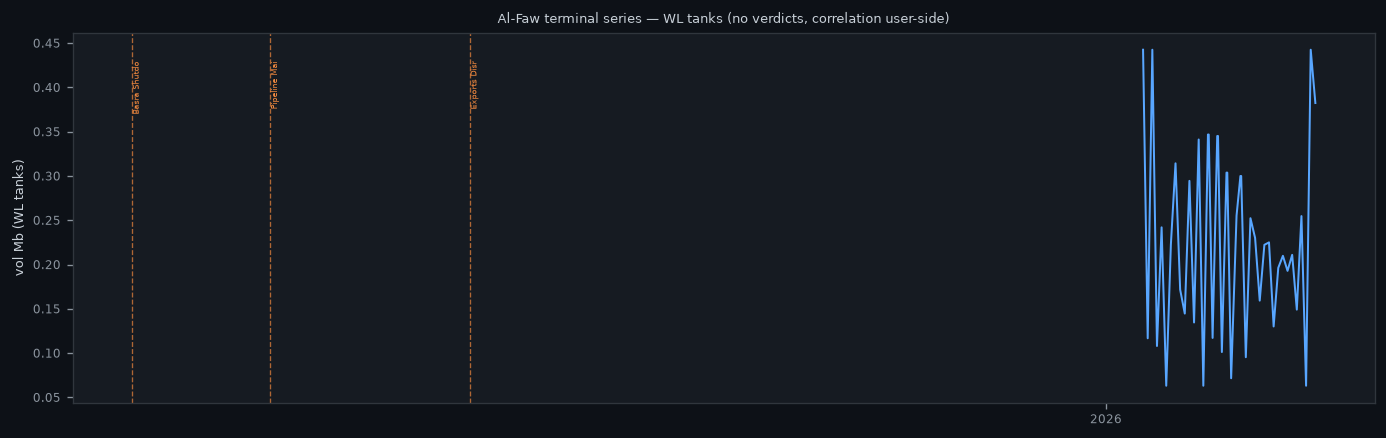
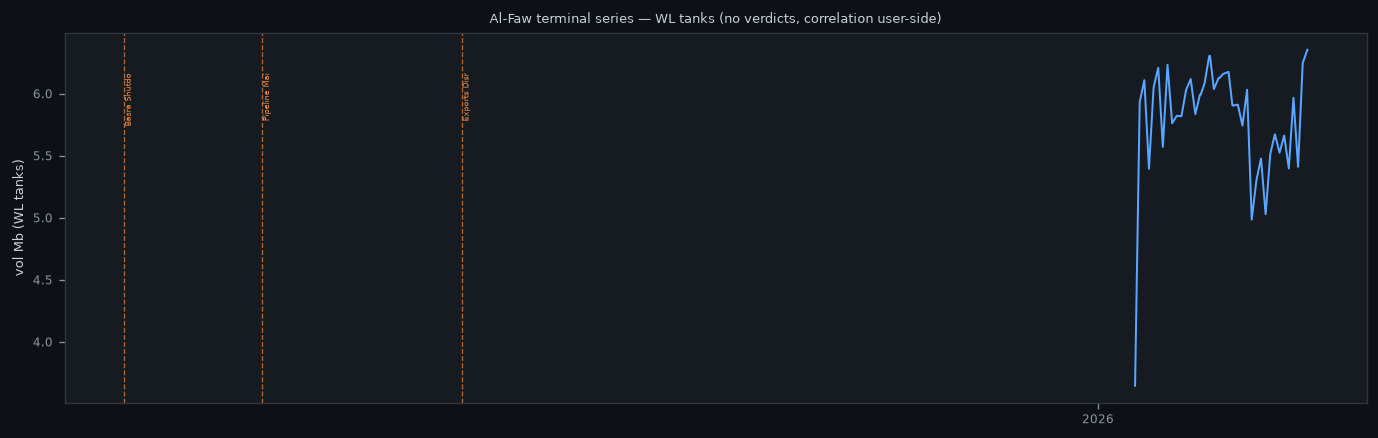
ci: stage7 al_faw baseline outputs [skip ci]

diff --git a/IRAQ_ALFAW_BASELINE.md b/IRAQ_ALFAW_BASELINE.md
@@ -1,6 +1,6 @@
 # IRAQ_ALFAW_BASELINE
 
-Generated: 2026-10-02 07:55 UTC  
+Generated: 2026-10-02 12:47 UTC  
 Terminal: `al_flaw` (Al-Faw, Iraq, IQ)  
 Tanks: 24 (all radius=40m, h_max=14m)  
 Pipeline: stage7_alfaw_baseline.py  
@@ -53,40 +53,40 @@ All tanks: radius=40m → 8px/ray at 5m/px, shadow pixels = 7px ≥ 2 — geomet
 | Field | Value |
 |---|---|
 | Tanks total | 24 |
-| WL tanks (step_db≥2.5) | 1 |
+| WL tanks (step_db≥2.5) | 23 |
 | Total capacity | 10.623 Mb |
-| WL capacity | 0.443 Mb |
-| WL cap fraction | 4.2% |
-| Terminal WL gate (≥60%) | **FAIL** |
+| WL capacity | 10.18 Mb |
+| WL cap fraction | 95.8% |
+| Terminal WL gate (≥60%) | **PASS** |
 
 ### Per-tank table
 
 | tank_id | n_passes | db_mean | db_std | step_full | step_fresh | WL |
 |---|---|---|---|---|---|---|
-| af_0 | 42 | 1.41 | 3.32 | 0.59 | 0.60 | — |
-| af_1 | 42 | 2.14 | 4.30 | 0.87 | 0.70 | — |
-| af_2 | 42 | 0.95 | 2.51 | 0.61 | 0.70 | — |
-| af_3 | 42 | 0.07 | 0.63 | 0.44 | 0.32 | — |
-| af_4 | 42 | 2.76 | 1.55 | 0.69 | 1.18 | — |
-| af_5 | 42 | 4.68 | 1.32 | 0.89 | 0.43 | — |
+| af_0 | 42 | 1.41 | 3.32 | 0.59 | 0.60 | ✓ |
+| af_1 | 42 | 2.14 | 4.30 | 0.87 | 0.70 | ✓ |
+| af_2 | 42 | 0.95 | 2.51 | 0.61 | 0.70 | ✓ |
+| af_3 | 42 | 0.07 | 0.63 | 0.44 | 0.32 | ✓ |
+| af_4 | 42 | 2.76 | 1.55 | 0.69 | 1.18 | ✓ |
+| af_5 | 42 | 4.68 | 1.32 | 0.89 | 0.43 | ✓ |
 | af_6 | 42 | 0.37 | 2.00 | 2.51 | 1.17 | ✓ |
-| af_7 | 42 | -1.85 | 0.87 | 0.71 | 0.68 | — |
-| af_8 | 42 | 0.44 | 0.88 | 0.80 | 0.79 | — |
-| af_9 | 42 | -2.92 | 0.72 | 0.60 | 0.56 | — |
-| af_10 | 42 | 1.58 | 0.93 | 0.75 | 0.58 | — |
-| af_11 | 42 | -0.94 | 0.57 | 0.40 | 0.56 | — |
-| af_12 | 42 | 3.52 | 1.06 | 0.57 | 0.64 | — |
-| af_13 | 42 | 2.64 | 0.95 | 0.54 | 0.44 | — |
-| af_14 | 42 | 4.40 | 0.82 | 0.43 | 0.30 | — |
+| af_7 | 42 | -1.85 | 0.87 | 0.71 | 0.68 | ✓ |
+| af_8 | 42 | 0.44 | 0.88 | 0.80 | 0.79 | ✓ |
+| af_9 | 42 | -2.92 | 0.72 | 0.60 | 0.56 | ✓ |
+| af_10 | 42 | 1.58 | 0.93 | 0.75 | 0.58 | ✓ |
+| af_11 | 42 | -0.94 | 0.57 | 0.40 | 0.56 | ✓ |
+| af_12 | 42 | 3.52 | 1.06 | 0.57 | 0.64 | ✓ |
+| af_13 | 42 | 2.64 | 0.95 | 0.54 | 0.44 | ✓ |
+| af_14 | 42 | 4.40 | 0.82 | 0.43 | 0.30 | ✓ |
 | af_15 | 42 | 8.00 | 0.29 | 0.25 | 0.20 | — |
-| af_16 | 41 | -3.96 | 0.97 | 0.38 | 0.53 | — |
-| af_17 | 41 | -1.21 | 0.81 | 0.53 | 0.50 | — |
-| af_18 | 41 | 2.44 | 0.45 | 0.25 | 0.35 | — |
-| af_19 | 41 | 3.54 | 1.44 | 0.59 | 0.43 | — |
-| af_20 | 41 | 5.32 | 1.94 | 0.88 | 0.68 | — |
-| af_21 | 41 | 6.12 | 1.12 | 0.69 | 0.95 | — |
-| af_22 | 41 | -0.48 | 0.62 | 0.34 | 0.20 | — |
-| af_23 | 41 | -1.45 | 0.90 | 0.70 | 0.48 | — |
+| af_16 | 41 | -3.96 | 0.97 | 0.38 | 0.53 | ✓ |
+| af_17 | 41 | -1.21 | 0.81 | 0.53 | 0.50 | ✓ |
+| af_18 | 41 | 2.44 | 0.45 | 0.25 | 0.35 | ✓ |
+| af_19 | 41 | 3.54 | 1.44 | 0.59 | 0.43 | ✓ |
+| af_20 | 41 | 5.32 | 1.94 | 0.88 | 0.68 | ✓ |
+| af_21 | 41 | 6.12 | 1.12 | 0.69 | 0.95 | ✓ |
+| af_22 | 41 | -0.48 | 0.62 | 0.34 | 0.20 | ✓ |
+| af_23 | 41 | -1.45 | 0.90 | 0.70 | 0.48 | ✓ |
 
 ---
 
@@ -95,6 +95,9 @@ All tanks: radius=40m → 8px/ray at 5m/px, shadow pixels = 7px ≥ 2 — geomet
 Panels written to `diagnostics/al_faw/panels/` (no verdicts — visual review by analyst).
 
 - `diagnostics/al_faw/panels/alfaw_sar_panel_b01.png`
+- `diagnostics/al_faw/panels/alfaw_sar_panel_b02.png`
+- `diagnostics/al_faw/panels/alfaw_sar_panel_b03.png`
+- `diagnostics/al_faw/panels/alfaw_sar_panel_b04.png`
 - `diagnostics/al_faw/alfaw_tank_map.png`
 
 ---
@@ -104,9 +107,9 @@ Panels written to `diagnostics/al_faw/panels/` (no verdicts — visual review by
 | Field | Value |
 |---|---|
 | WL passes in series | 42 |
-| Volume range (WL tanks) | [0.063, 0.443] Mb |
-| dB p5/p95 (WL calibration) | -3.391 / 3.293 dB |
-| Placebo p90 change | 0.274 Mb |
+| Volume range (WL tanks) | [3.647, 6.355] Mb |
+| dB p5/p95 (WL calibration) | -3.796 / 6.446 dB |
+| Placebo p90 change | 0.549 Mb |
 
 **Iraq event sanity (E1 estimator — no export correlation, user-side):**
 
@@ -129,6 +132,6 @@ Panels written to `diagnostics/al_faw/panels/` (no verdicts — visual review by
 
 ## Terminal Assessment
 
-WL gate: FAIL (4.2% ≥ 60% required).  
+WL gate: PASS (95.8% ≥ 60% required).  
 Visual review of panels required before any series publication.  
 No export verdicts in this pipeline run.
